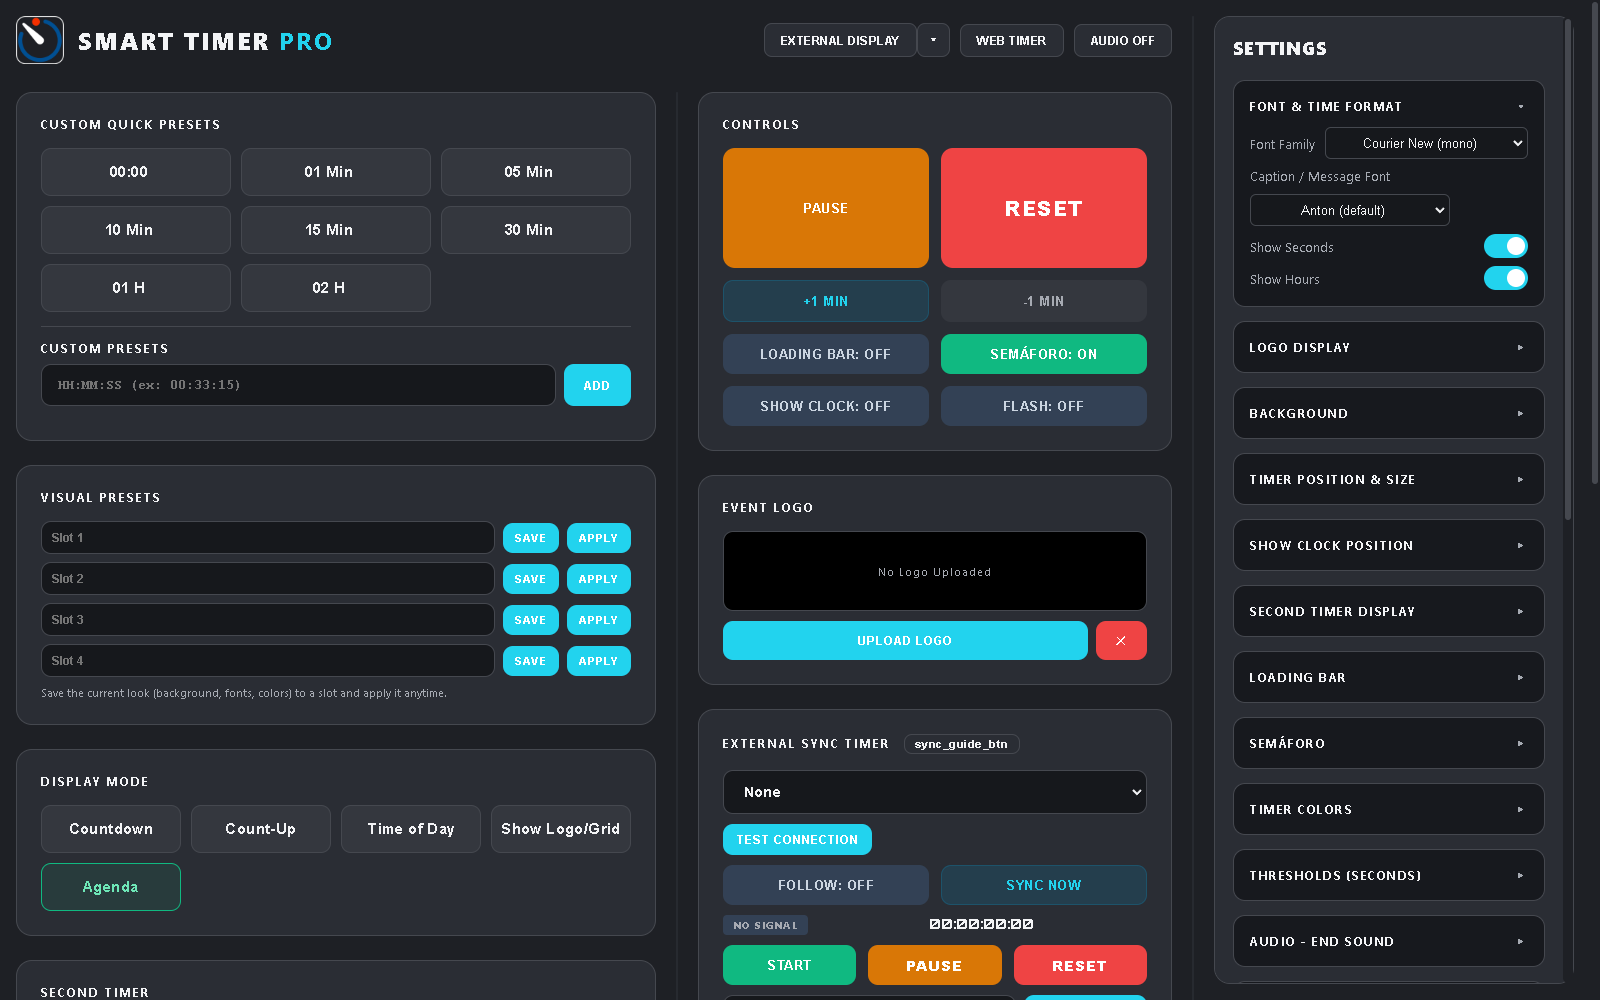
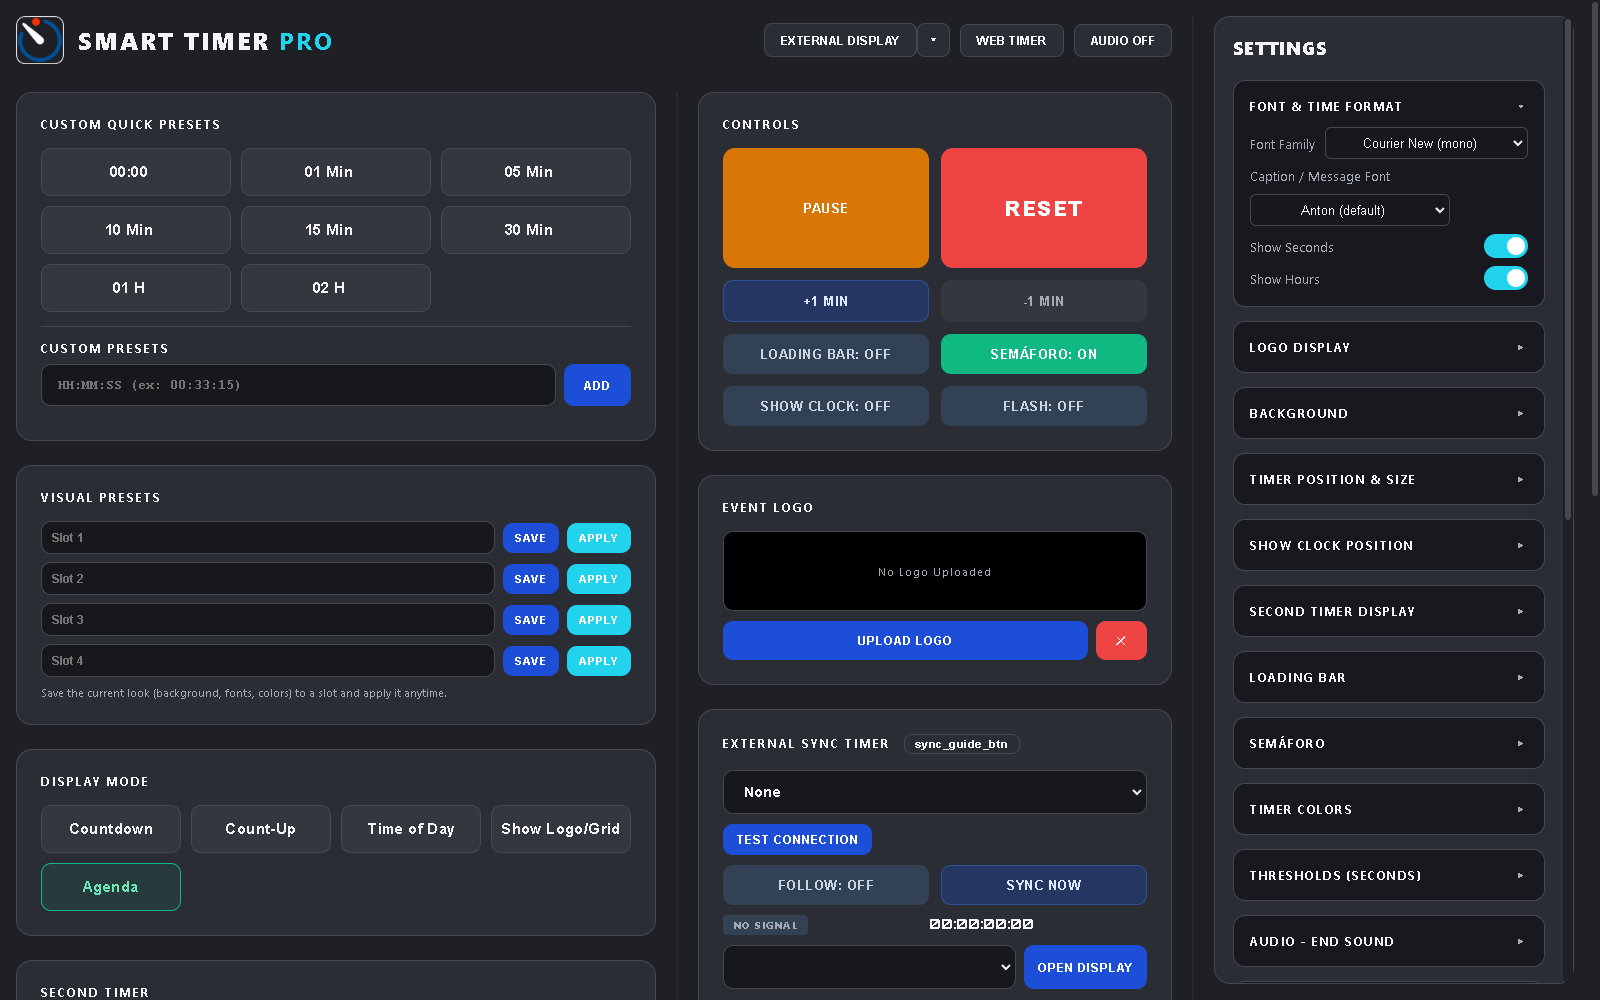
v3.0.1: remove sync card transport buttons, darker neutral blue for light-blue buttons across the app (better white text contrast)

diff --git a/public/index.html b/public/index.html
@@ -199,7 +199,7 @@
             font-weight: 600; letter-spacing: 0.5px; transition: all 0.15s;
         }
         .header-btn:hover { border-color: var(--accent); color: var(--accent); }
-        .header-btn.active { background: var(--accent); color: #fff; border-color: var(--accent); }
+        .header-btn.active { background: #1d4ed8; color: #fff; border-color: #1d4ed8; }
         .header-btn.warn { border-color: rgba(239,68,68,0.3); color: var(--red); }
 
         .grid {
@@ -296,9 +296,9 @@
         .btn-reset { background: var(--red); height: 120px; color: #fff; }
         .btn-reset:hover { filter: brightness(1.1); }
         .btn-sm { padding: 12px; border-radius: 10px; font-size: 13px; font-weight: 700; }
-        .btn-add { background: rgba(0,163,224,0.15); color: var(--accent); border: 1px solid rgba(0,163,224,0.2); }
+        .btn-add { background: rgba(29,78,216,0.28); color: #dbeafe; border: 1px solid rgba(59,130,246,0.35); }
         .btn-sub { background: var(--chip-bg); color: var(--text-dim); }
-        .btn-add:hover { background: rgba(0,163,224,0.25); }
+        .btn-add:hover { background: rgba(29,78,216,0.45); }
         .btn-sub:hover { filter: brightness(1.15); }
         .preset-grid { display: grid; grid-template-columns: repeat(3, minmax(0, 1fr)); gap: 10px; margin-bottom: 14px; }
         .preset-grid.cols4 { grid-template-columns: repeat(4, minmax(0, 1fr)); }
@@ -320,11 +320,11 @@
         }
         .custom-input:focus { border-color: var(--accent); }
         .btn-set {
-            background: var(--accent); border: none; padding: 12px 20px;
+            background: #1d4ed8; border: none; padding: 12px 20px;
             border-radius: 10px; color: #fff; font-weight: 700; cursor: pointer;
             font-size: 12px; letter-spacing: 1px; white-space: nowrap;
         }
-        .btn-set:hover { background: #0090cc; }
+        .btn-set:hover { background: #2563eb; }
         .msg-input {
             width: 100%; background: var(--input-bg); border: 1px solid var(--border);
             border-radius: 10px; color: var(--text); padding: 12px; font-size: 14px;
@@ -337,14 +337,14 @@
             margin-bottom: 14px; transition: all 0.15s;
         }
         .btn-msg-show { background: var(--red); color: #fff; }
-        .btn-msg-hide { background: var(--accent); color: #fff; }
+        .btn-msg-hide { background: #1d4ed8; color: #fff; }
         .bank-header {
             display: flex; justify-content: space-between; align-items: center;
             margin-bottom: 10px;
         }
         .btn-save {
-            background: rgba(0,163,224,0.15); color: var(--accent);
-            border: 1px solid rgba(0,163,224,0.2); padding: 6px 14px;
+            background: rgba(29,78,216,0.28); color: #dbeafe;
+            border: 1px solid rgba(59,130,246,0.35); padding: 6px 14px;
             border-radius: 6px; font-size: 11px; font-weight: 700; cursor: pointer;
             letter-spacing: 0.5px;
         }
@@ -483,11 +483,11 @@
         .audio-status.none { background: rgba(100,116,139,0.15); color: var(--text-dim); }
 
         .btn-small {
-            background: var(--accent); border: none; padding: 6px 12px;
+            background: #1d4ed8; border: none; padding: 6px 12px;
             border-radius: 6px; color: #fff; font-size: 11px; font-weight: 700;
             cursor: pointer; white-space: nowrap;
         }
-        .btn-small:hover { background: #0090cc; }
+        .btn-small:hover { background: #2563eb; }
         .btn-small.danger { background: var(--red); }
         .btn-small.danger:hover { background: #dc2626; }
 
@@ -1234,11 +1234,6 @@
                     <div class="custom-row" style="margin-bottom:10px">
                         <span id="sync-status" class="msg-badge badge-off" style="flex:none">NO SIGNAL</span>
                         <span id="sync-time" style="flex:1;font-family:Orbitron,Courier New,monospace;font-size:14px;font-weight:700;color:var(--text);text-align:center">00:00:00:00</span>
-                    </div>
-                    <div class="btn-grid" style="grid-template-columns:1fr 1fr 1fr;margin-bottom:10px">
-                        <button onclick="syncCmd('start')" class="btn btn-start btn-sm" style="height:40px">START</button>
-                        <button onclick="syncCmd('pause')" class="btn btn-pause btn-sm" style="height:40px;color:#fff;font-size:14px;font-weight:800;letter-spacing:1px">PAUSE</button>
-                        <button onclick="syncCmd('reset')" class="btn btn-reset btn-sm" style="height:40px;color:#fff;font-size:14px;font-weight:800;letter-spacing:1px">RESET</button>
                     </div>
                     <div class="custom-row" style="margin-bottom:10px">
                         <select id="sync-display" class="custom-input" style="flex:1"></select>
